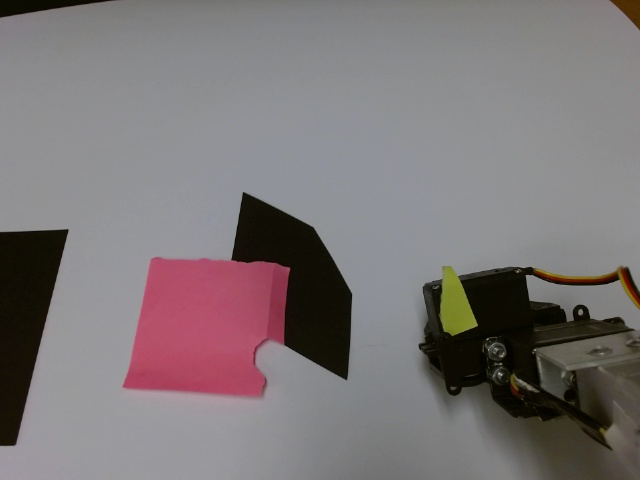
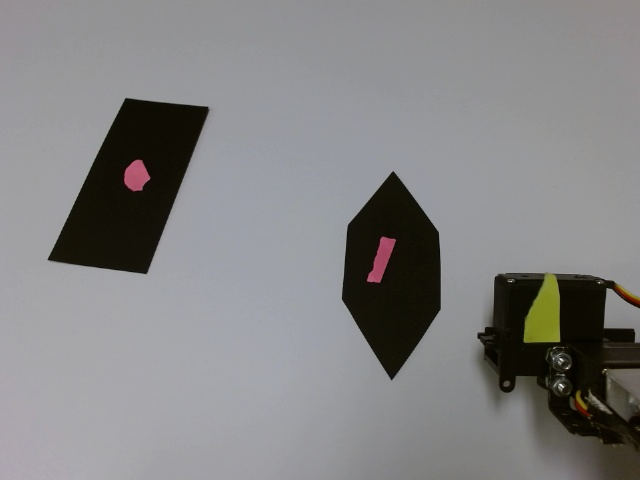
can now accurately send the correct location

diff --git a/Image_Analysis/Shape_detection.py b/Image_Analysis/Shape_detection.py
@@ -31,6 +31,7 @@ def Shape_dectection(frame,shape):
     (arm_coord,closest_red)=color_detection(frame)
     coord_matrix[0] = arm_coord
     coord_matrix[2] = closest_red
+    distance_bw_rd_green = math.sqrt((arm_coord[0] - closest_red[0])**2+(arm_coord[1] - closest_red[1])**2)
     # print(arm_coord)
     # list for storing names of shapes
     for contour in contours:
@@ -97,9 +98,11 @@ def Shape_dectection(frame,shape):
     #final_cords = arm + destination_matrix [1x2]
     final_cords = [[], []]
     final_cords[0] = arm_coord 
-    if coord_matrix[1] ==[]:
+    if coord_matrix[1] ==[] and distance_bw_rd_green <=0.2:
         final_cords[1] = coord_matrix[2]
-    else:
+    elif coord_matrix[1] ==[] and distance_bw_rd_green >=0.2:
+        final_cords[1] = [2,2]  
+    else:  #as long as the shape is visible
         final_cords[1] = coord_matrix[1]
 
     #cv2.imshow('shapes', frame)

diff --git a/Image_Analysis/color_detection.py b/Image_Analysis/color_detection.py
@@ -95,9 +95,14 @@ def color_detection(imageFrame):
 
 	dist_red_green = []
 	for c in range(len(red_color_matrix)):
-		dist_red_green.append(math.sqrt((green_color_array[0] - red_color_matrix[c][0])**2+(green_color_array[1] - red_color_matrix[c][1])**2))
+    		
+		if len(green_color_array)==0 or len(red_color_matrix) == 0:
+			dist_red_green.append(3)
+		else:
+			dist_red_green.append(math.sqrt((green_color_array[0] - red_color_matrix[c][0])**2+(green_color_array[1] - red_color_matrix[c][1])**2))
 
 	closest_red = dist_red_green.index(np.min(dist_red_green))
+	print('closest red: ', np.min(dist_red_green))
 	# print("red matrix is: ", red_color_matrix)
 	# print("cloests red: ", closest_red)
 	# print("list: ", dist_red_green)

diff --git a/Image_Analysis/robot_vision.py b/Image_Analysis/robot_vision.py
@@ -8,7 +8,7 @@ while True:
     cv2.imshow('shapes', frame)
     if cv2.waitKey(1) == ord('q'):
         break
-    time.sleep(0.7)
+   
 cap.release()
 cv2.destroyAllWindows()
     
